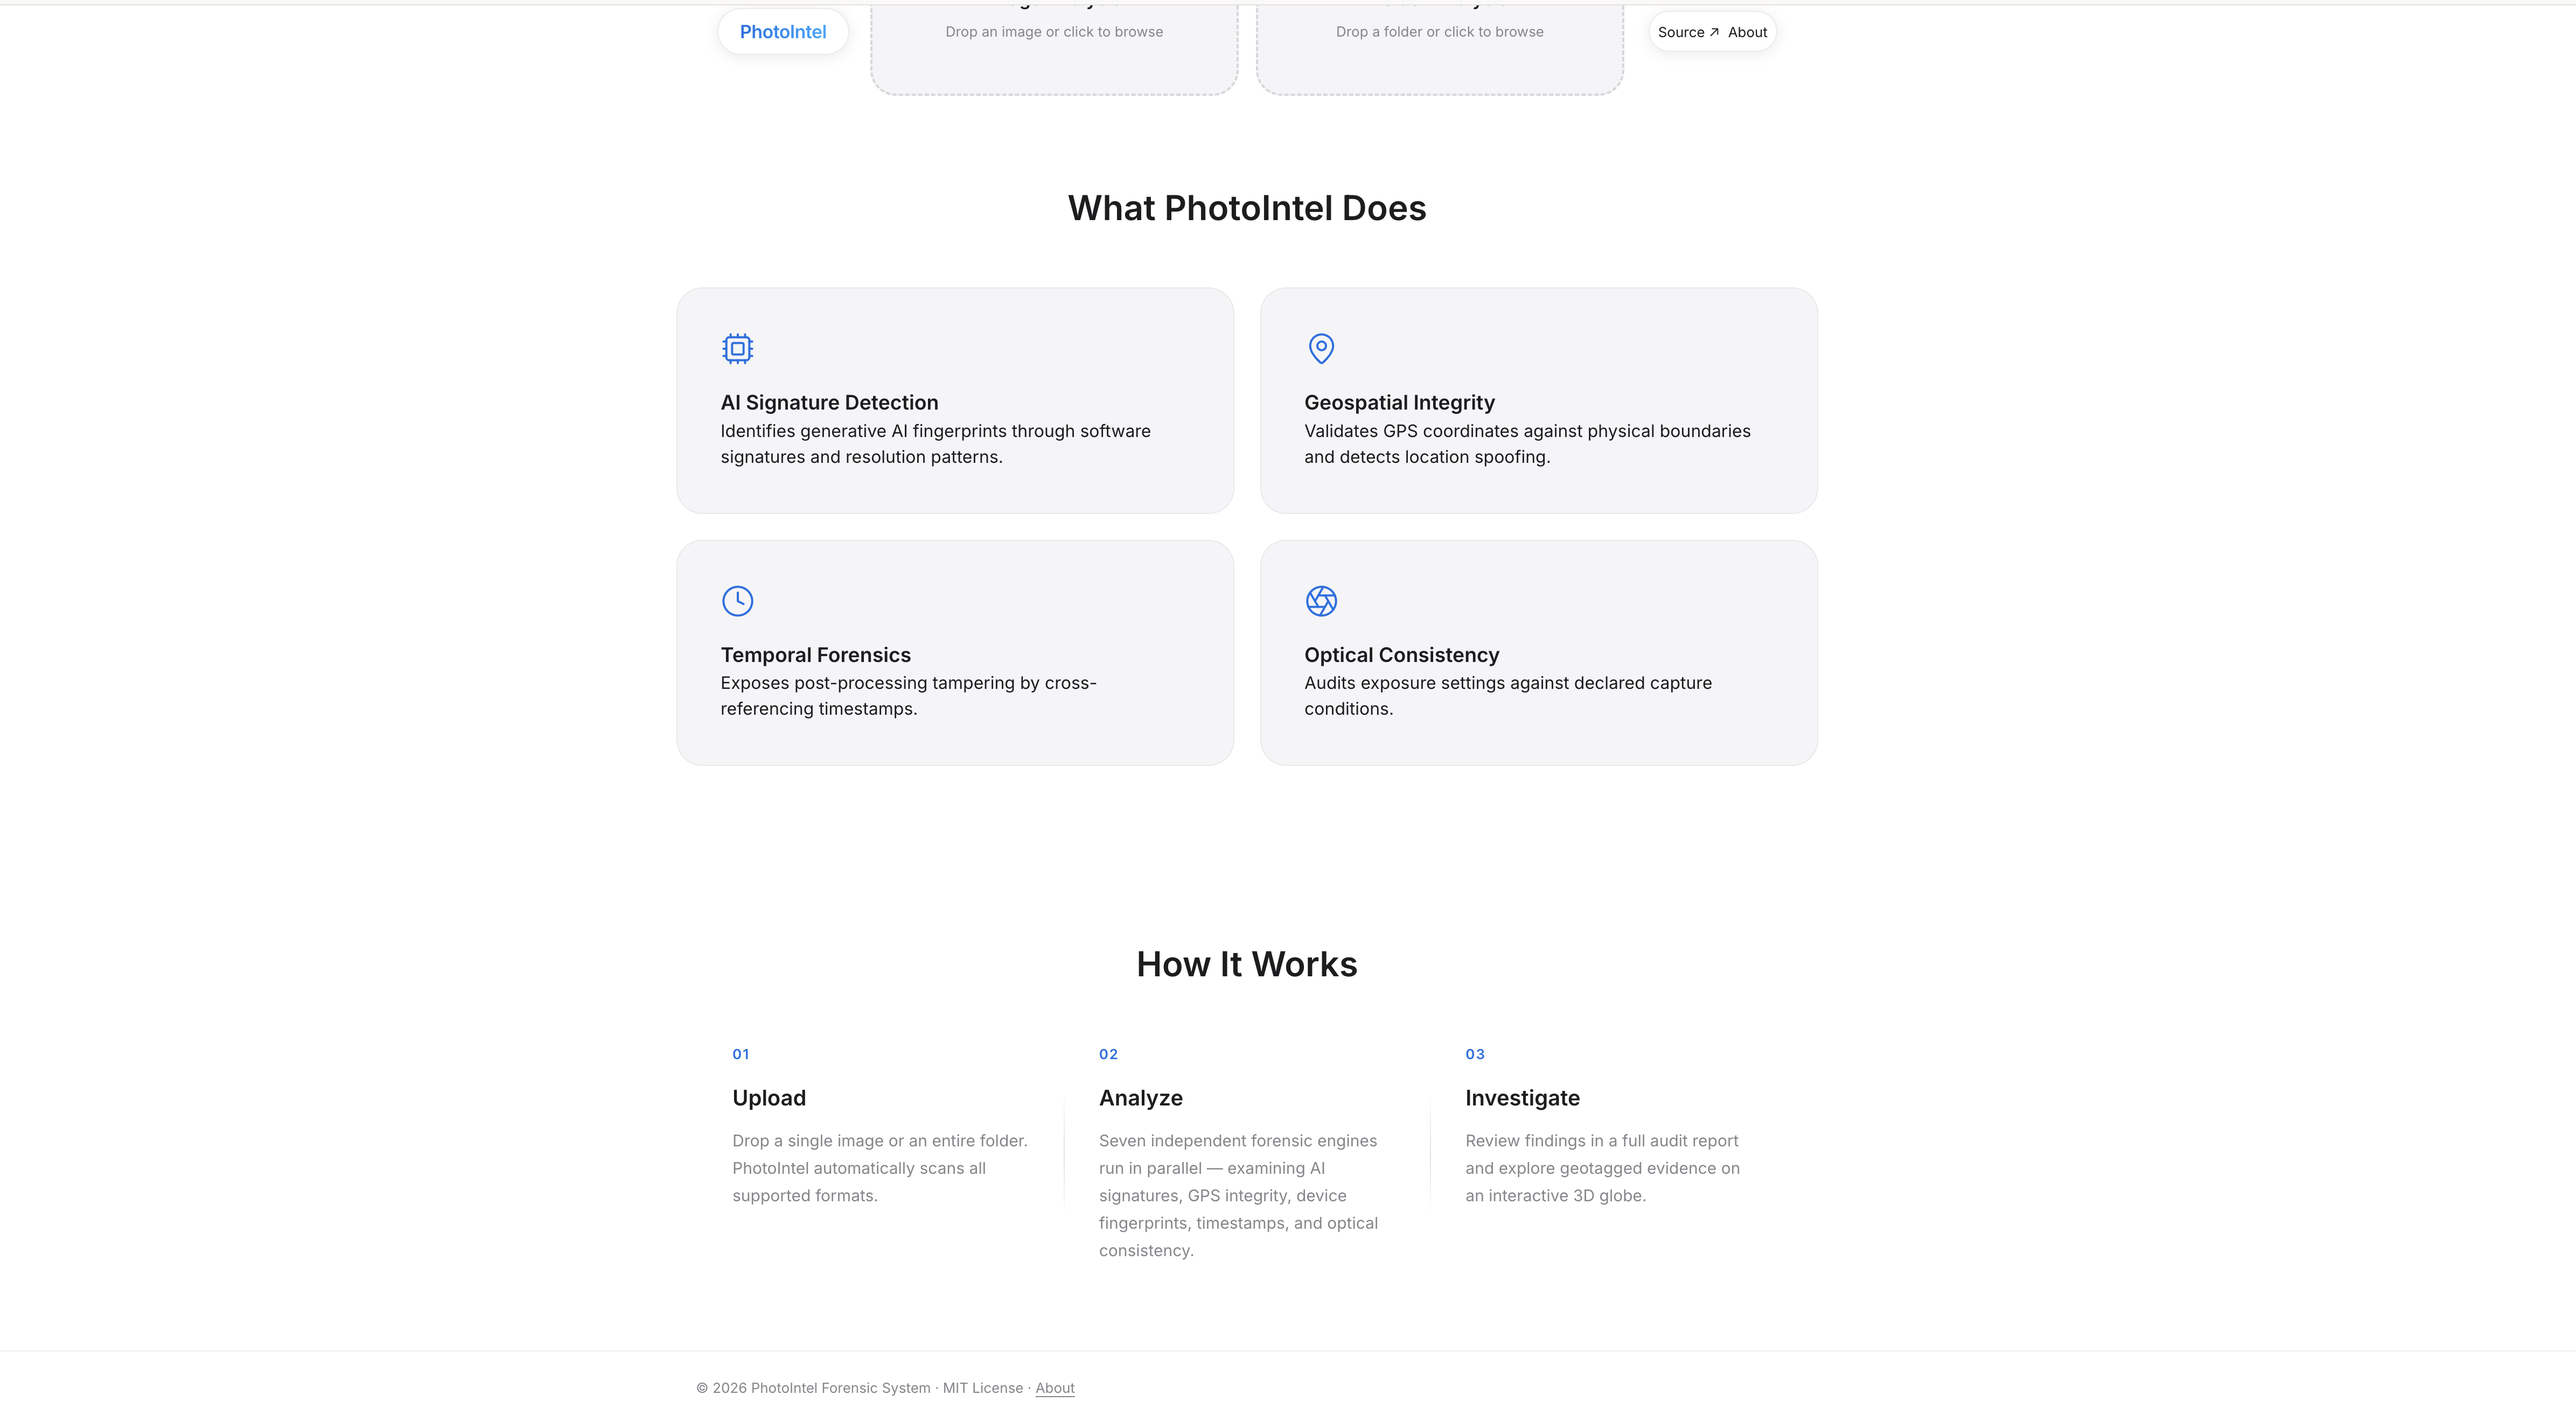
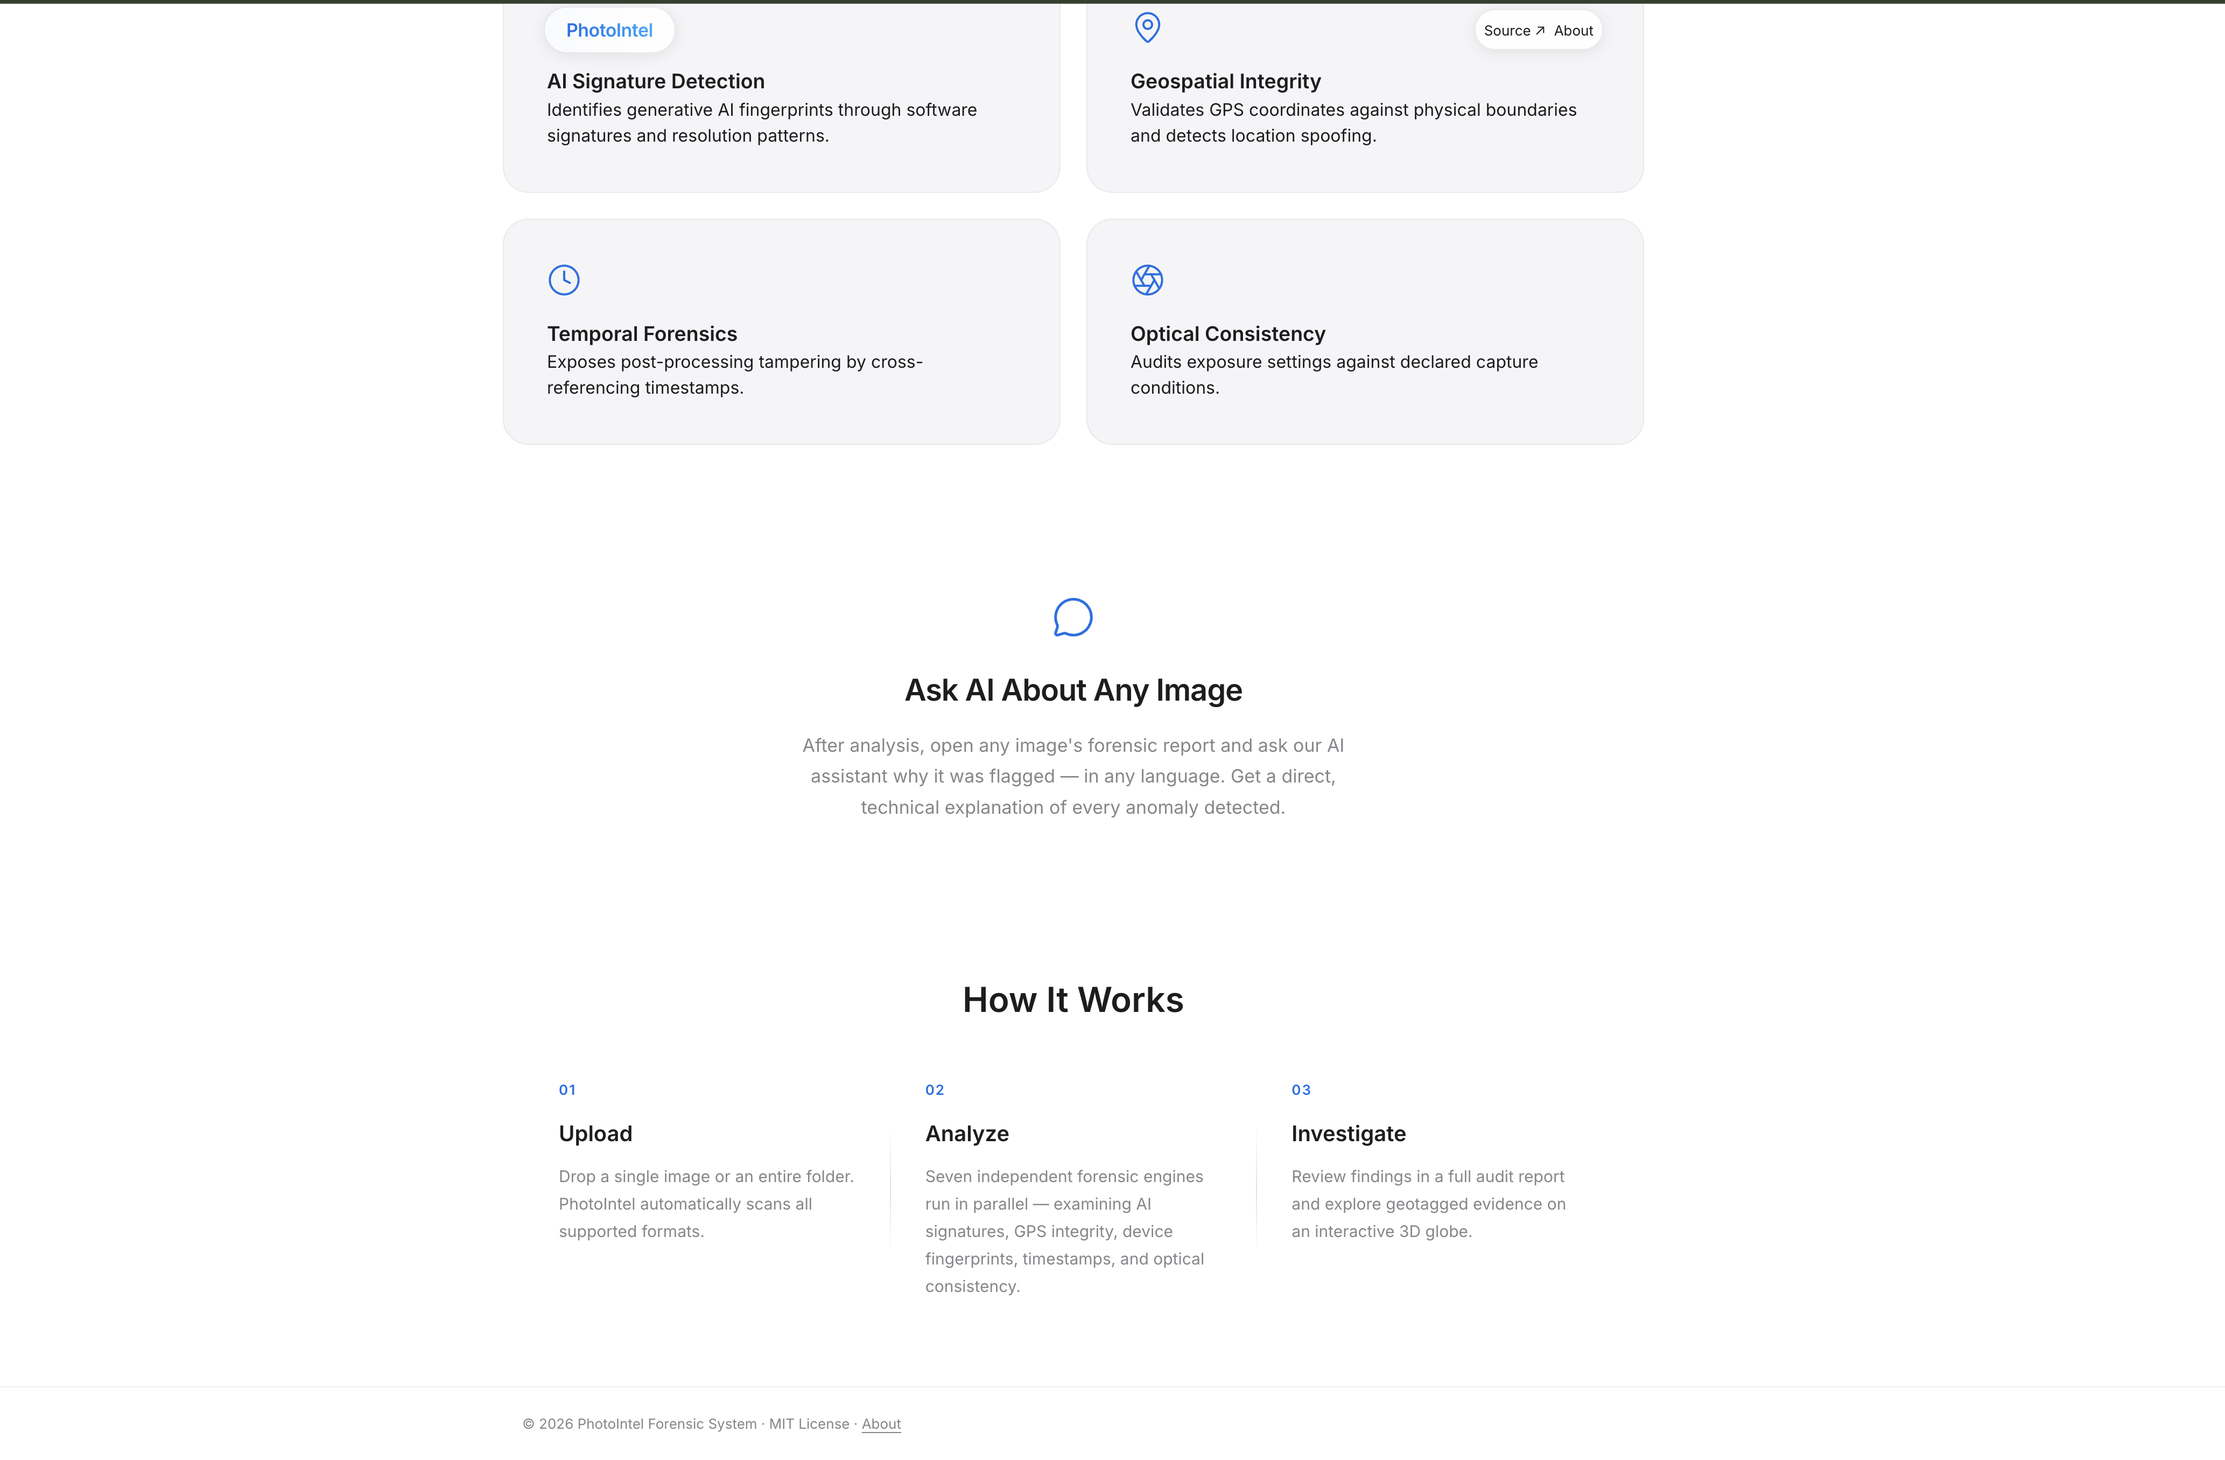
docs: update README with AI forensic features

diff --git a/app/index.html b/app/index.html
@@ -118,6 +118,19 @@
                     </article>
                 </div>
             </div>
+
+            <!-- AI -->
+            <div class="ai-feature-section">
+                <div class="ai-feature-icon">
+                    <i data-lucide="message-circle" class="ai-feature-lucide"></i>
+                </div>
+                <h2 class="ai-feature-title">Ask AI About Any Image</h2>
+                <p class="ai-feature-desc">
+                    After analysis, open any image's forensic report and ask our AI assistant
+                    why it was flagged — in any language. Get a direct, technical explanation
+                    of every anomaly detected.
+                </p>
+            </div>
  
             <!-- How It Works -->
             <div class="how-it-works">

diff --git a/app/landing.css b/app/landing.css
@@ -312,3 +312,31 @@
     font-size: 13px;
     color: var(--text-secondary);
 }
+
+.ai-feature-section {
+    text-align: center;
+    max-width: 600px;
+    margin: 0 auto;
+    padding: 60px 20px;
+}
+
+.ai-feature-lucide {
+    width: 40px;
+    height: 40px;
+    color: var(--accent-color);
+    stroke-width: 1.5px;
+    margin-bottom: 20px;
+}
+
+.ai-feature-title {
+    font-size: 28px;
+    font-weight: 600;
+    letter-spacing: -0.02em;
+    margin-bottom: 16px;
+}
+
+.ai-feature-desc {
+    font-size: 17px;
+    color: var(--text-secondary);
+    line-height: 1.7;
+}

diff --git a/README.md b/README.md
@@ -1,60 +1,172 @@
 # PhotoIntel
-
+ 
+![Python](https://img.shields.io/badge/Python-3.10+-blue?style=flat-square)
+![FastAPI](https://img.shields.io/badge/FastAPI-0.100+-green?style=flat-square)
+![CesiumJS](https://img.shields.io/badge/CesiumJS-1.115-orange?style=flat-square)
+![License](https://img.shields.io/badge/License-MIT-yellow?style=flat-square)
+ 
 **Advanced forensic intelligence platform for image authentication and geospatial auditing.**
-
+ 
+> PhotoIntel analyzes image metadata to detect manipulation, verify GPS integrity, identify AI-generated content, and visualize geotagged evidence on an interactive 3D globe.
+ 
 ---
-
+ 
 ## 🌐 Live Demo
-You can explore the live system here:  
-[**Visit PhotoIntel Live Site**](https://ebfdf627-231a-4352-873b-b3e4e19a0599-00-36gz5i2d1bcrs.pike.replit.dev/)
-
-*(Note: The server must be active on Replit for the link to work.)*
-
+ 
+**[→ Visit PhotoIntel Live](https://ebfdf627-231a-4352-873b-b3e4e19a0599-00-36gz5i2d1bcrs.pike.replit.dev/)**
+ 
+> Note: The Replit server must be active for the link to work.
+ 
 ---
-
-## 🔍 Features
-- **AI Signature Detection** — Identifies generative AI fingerprints.
-- **Geospatial Integrity** — Validates GPS coordinates against physical boundaries.
-- **Temporal Forensics** — Exposes timestamp tampering and post-processing.
-- **3D Globe Visualization** — Interactive CesiumJS globe for evidence mapping.
-
----
-
+ 
 ## 📸 System Previews
-
-### Interactive 3D Evidence Mapping
+ 
 <div align="center">
-  <img src="img/globPerImage.png" alt="3D Interactive Map" width="800">
+  <img src="img/globusAndStats.png" alt="3D Globe with Collection Insights" width="900">
   <br>
-  <em>CesiumJS globe displaying geotagged evidence and device location clusters.</em>
+  <em>Interactive CesiumJS globe displaying geotagged evidence, device location clusters, and forensic statistics.</em>
 </div>
-
+ 
 <br>
-
-### Forensic Audit Dashboard
+ 
 <div align="center">
-  <img src="img/imageAnalysis.png" alt="Audit Summary" width="800">
+  <img src="img/auAssistant.png" alt="AI Forensic Assistant" width="900">
   <br>
-  <em>Automated batch analysis highlighting AI-generated and tampered images.</em>
+  <em>AI-powered forensic assistant explaining why an image was flagged — in any language.</em>
 </div>
-
+ 
 <br>
-
-### Clean & Responsive UI
+ 
 <div align="center">
-  <img src="img/loading.png" alt="Landing Page" width="800">
+  <img src="img/imageAnalysis.png" alt="Audit Summary Dashboard" width="900">
+  <br>
+  <em>Audit Summary dashboard with batch analysis, risk scoring, and flagged image detection.</em>
 </div>
-
+ 
+<br>
+ 
+<div align="center">
+  <img src="img/globPerImage.png" alt="Per-Image Geospatial Detail" width="900">
+  <br>
+  <em>Per-image forensic detail panel with device signature, timestamp, and geospatial coordinates.</em>
+</div>
+ 
 ---
-
+ 
+## 🔍 Features
+ 
+- **AI Signature Detection** — Identifies generative AI fingerprints through software signatures, resolution patterns, and filename heuristics
+- **Geospatial Integrity** — Validates GPS coordinates against physical boundaries and detects location spoofing
+- **Temporal Forensics** — Exposes post-processing tampering by cross-referencing capture and modification timestamps
+- **Optical Consistency** — Audits exposure settings (ISO, aperture, shutter speed) against declared capture conditions
+- **Device Chain-of-Custody** — Tracks device transitions across the image timeline
+- **Spatial-Temporal Analysis** — Detects physically impossible travel speeds between consecutive geotagged images
+- **3D Globe Visualization** — Interactive CesiumJS globe with timeline trajectories and device-switch overlays
+- **AI Forensic Assistant** — Ask questions about any flagged image and receive direct, technical explanations
+ 
+---
+ 
 ## 🛠 Tech Stack
-- **Backend:** Python, FastAPI, Pillow
-- **Frontend:** HTML, CSS, JavaScript
-- **3D Engine:** CesiumJS
-
+ 
+| Layer     | Technology                        |
+|-----------|-----------------------------------|
+| Backend   | Python, FastAPI, Pillow           |
+| Frontend  | HTML, CSS, JavaScript             |
+| 3D Globe  | CesiumJS                          |
+| AI Engine | Gemini API                        |
+| Icons     | Lucide                            |
+ 
 ---
-
+ 
+## ⚙ Installation
+ 
+### 1. Clone the repository
+ 
+```bash
+git clone https://github.com/Shilo-Wexler/PhotoIntel.git
+cd PhotoIntel
+```
+ 
+### 2. Install Python dependencies
+ 
+```bash
+pip install -r requirements.txt
+```
+ 
+### 3. Configure your API keys
+ 
+Create `config.py` in the project root (gitignored — never committed):
+ 
+```python
+CESIUM_TOKEN   = 'YOUR_CESIUM_ION_TOKEN'    # https://cesium.com/ion/tokens
+GEMINI_API_KEY = 'YOUR_GEMINI_API_KEY'      # https://aistudio.google.com
+```
+ 
+Create `app/config.js` (gitignored — never committed):
+ 
+```javascript
+const CONFIG = {
+    CESIUM_TOKEN: 'YOUR_CESIUM_ION_TOKEN'
+};
+```
+ 
+> ⚠ Both files are gitignored. See `app/config.example.js` for the frontend template.
+ 
+### 4. Run the server
+ 
+```bash
+python main.py
+```
+ 
+Open your browser at:
+ 
+```
+http://localhost:8080
+```
+ 
+---
+ 
+## 📁 Project Structure
+ 
+```
+PhotoIntel/
+├── app/                    # Frontend (served as static files)
+│   ├── index.html
+│   ├── base.css            # Design tokens, reset, navigation
+│   ├── landing.css         # Landing page styles
+│   ├── app.css             # Application screen styles
+│   ├── app.js              # SPA controller, navigation, file upload
+│   ├── ui.js               # Report rendering (stats strip, image list)
+│   ├── map.js              # Map sidebar and data integration
+│   ├── map_view.js         # CesiumJS globe wrapper
+│   └── config.js           # ⚠ Gitignored — create manually
+├── src/
+│   ├── analyzer/           # Forensic rule engines
+│   ├── extractor/          # EXIF metadata extraction
+│   ├── models/             # Data models
+│   ├── constants/          # Forensic and geographic thresholds
+│   └── converters.py
+├── tests/
+├── img/                    # README screenshots
+├── main.py                 # FastAPI entry point
+├── config.py               # ⚠ Gitignored — create manually
+└── requirements.txt
+```
+ 
+---
+ 
 ## 👤 About
-Developed by **Shilo Wexler** — Computer Science and Physics student at The Open University of Israel.
-
-[LinkedIn](https://www.linkedin.com/in/shilo-wexler) | [GitHub](https://github.com/Shilo-Wexler)
+ 
+Developed by **Shilo Wexler** — Computer Science and Physics student at The Open University of Israel, with a focus on data integrity and digital forensics.
+ 
+PhotoIntel began as a group capstone project during an intensive Python specialization and was independently expanded into a full-stack forensic intelligence platform.
+ 
+[![LinkedIn](https://img.shields.io/badge/LinkedIn-Shilo_Wexler-blue?style=flat-square&logo=linkedin)](https://www.linkedin.com/in/shilo-wexler)
+[![GitHub](https://img.shields.io/badge/GitHub-Shilo--Wexler-black?style=flat-square&logo=github)](https://github.com/Shilo-Wexler)
+ 
+---
+ 
+## 📄 License
+ 
+Released under the [MIT License](LICENSE).
+ 
